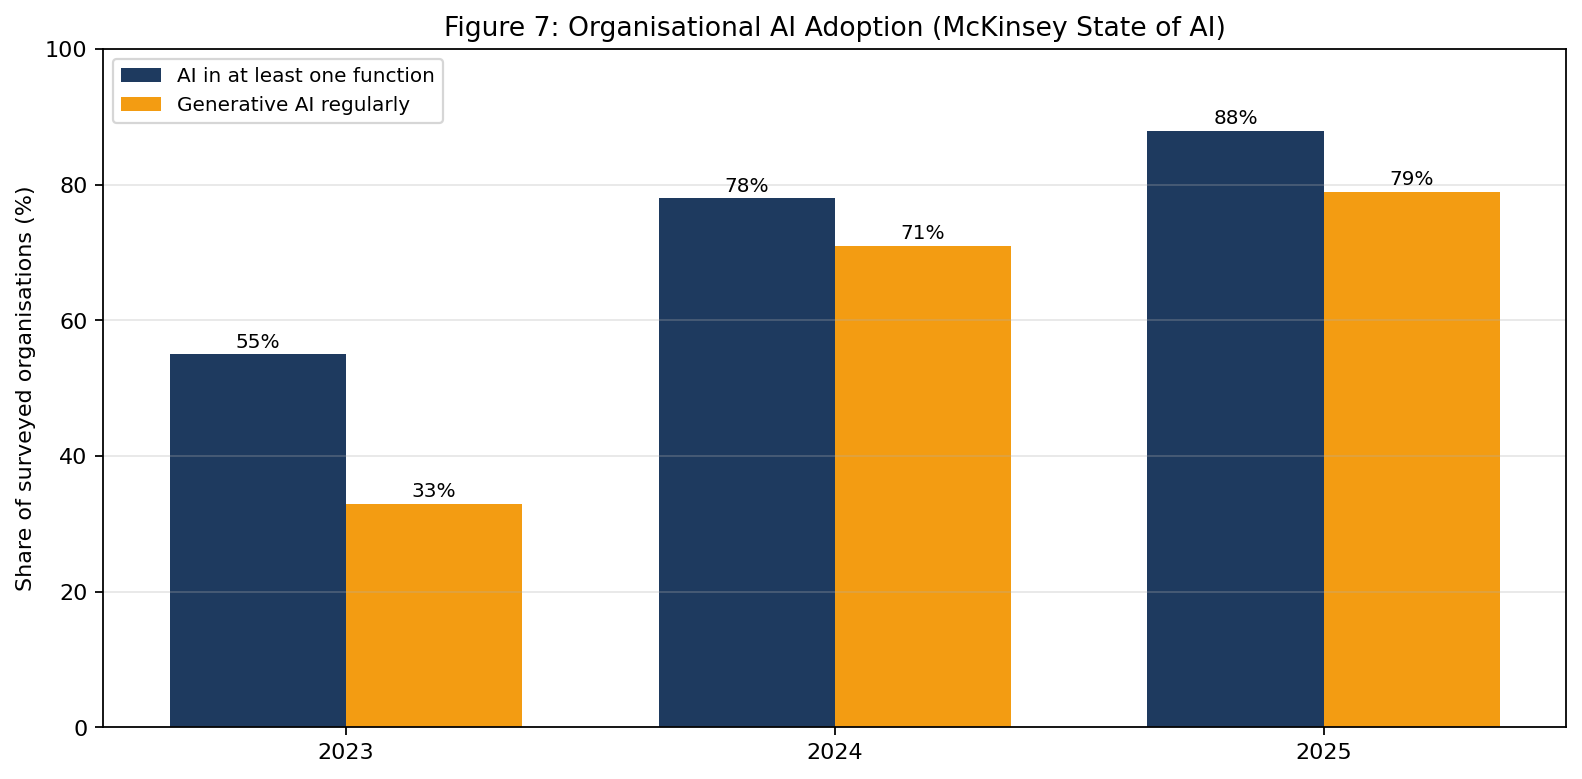
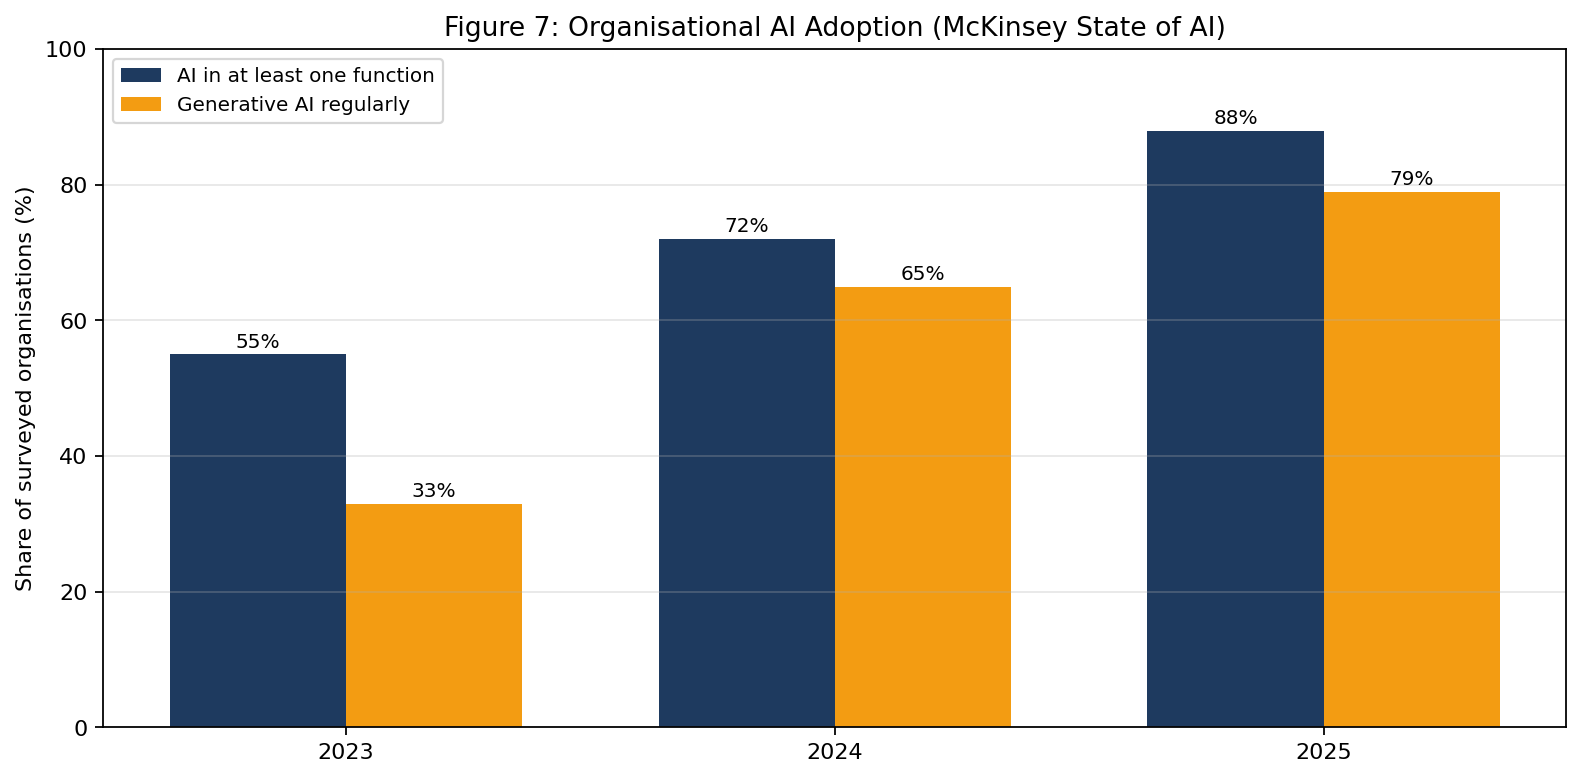
Fix AI era report: McKinsey 2024 adoption figures, Diener DOI, Pew attribution, and wording

Changed region(s): [[0.5265, 0.2773, 0.6504, 0.3697], [0.4027, 0.2157, 0.5265, 0.3081]]

diff --git a/public/reports/ai-era-daily-life/index.html b/public/reports/ai-era-daily-life/index.html
@@ -335,7 +335,7 @@
 <section id="qol">
   <h2>3. Quality of Life and Life Satisfaction</h2>
 
-  <p>Life satisfaction is the most direct evaluative measure of whether lives are going well, and it has been collected consistently by the Gallup World Poll through the Cantril ladder since 2005. The World Happiness Report publishes country-level values as three-year rolling averages, and the unweighted world mean of those values is the closest thing to a global happiness trend. It rose from about 5.39 in 2015 to 5.65 in 2025, an increase of roughly a quarter of a point on a 0 to 10 scale (Figure 2).</p>
+  <p>Life satisfaction is the most direct evaluative measure of whether lives are going well, and it has been collected consistently by the Gallup World Poll through the Cantril ladder since 2005. The World Happiness Report publishes country-level values as three-year rolling averages, and the unweighted world mean of those values is the closest thing to a global happiness trend. It rose from about 5.38 in 2015 to 5.65 in 2025, an increase of roughly a quarter of a point on a 0 to 10 scale (Figure 2).</p>
 
   <div class="chart-container">
     <h4>Figure 1: Generative AI Milestones and the ChatGPT Inflection Point (2016-2026)</h4>
@@ -446,7 +446,7 @@
 <section id="distribution">
   <h2>8. Distribution of Effects</h2>
 
-  <p>Who gains and who loses depends on which side of three gaps a person sits: the usage gap, the exposure gap, and the skill gap. The usage gap is the largest and the best measured. Pew's 2025 survey found 58 percent of US adults aged 18 to 29 had used ChatGPT, versus 41 percent of those aged 30 to 49, 25 percent of those aged 50 to 64, and 10 percent of those 65 and over (Figure 10a). The same survey found 62 percent of Americans thought AI would have a major impact on workers in general but only 32 percent thought it would have a major impact on them personally, a gap between generalised anxiety and personal expectation that is itself a distributional fact: those who expect to be affected are not evenly spread across the population.</p>
+  <p>Who gains and who loses depends on which side of three gaps a person sits: the usage gap, the exposure gap, and the skill gap. The usage gap is the largest and the best measured. Pew's 2025 survey found 58 percent of US adults aged 18 to 29 had used ChatGPT, versus 41 percent of those aged 30 to 49, 25 percent of those aged 50 to 64, and 10 percent of those 65 and over (Figure 10a). An earlier Pew survey found the same pattern: 62 percent of Americans thought AI would have a major impact on workers generally, but only 28 percent thought it would have a major impact on them personally, a gap between generalised anxiety and personal expectation that is itself a distributional fact: those who expect to be affected are not evenly spread across the population.</p>
 
   <div class="two-col">
     <div class="chart-container">
@@ -495,7 +495,7 @@
 
   <p>Reviewed together, the seven dimensions support four solid conclusions and three honest non-conclusions.</p>
 
-  <p><strong>First, generative AI has diffused faster than any comparable consumer technology, and its adoption is real and measurable.</strong> ChatGPT went from launch to 100 million weekly users in a year and to about 800 million by October 2025. McKinsey surveys show the share of organisations using AI in at least one function rising from 55 percent in 2023 to 78 percent in 2024 and 88 percent in 2025, with regular generative AI use up from 33 to 79 percent over the same period (Figure 7). Pew's 44 percent ChatGPT usage among US adults in 2026 makes generative AI a mainstream consumer utility. This is not hype; it is the factual base on which the wellbeing questions sit.</p>
+  <p><strong>First, generative AI has diffused faster than any comparable consumer technology, and its adoption is real and measurable.</strong> ChatGPT went from launch to 100 million weekly users in a year and to about 800 million by October 2025. McKinsey surveys show the share of organisations using AI in at least one function rising from 55 percent in 2023 to 72 percent in 2024 and 88 percent in 2025, with regular generative AI use up from 33 percent in 2023 to 65 percent in 2024 and 79 percent in 2025 (Figure 7). Pew's 44 percent ChatGPT usage among US adults in 2026 makes generative AI a mainstream consumer utility. This is not hype; it is the factual base on which the wellbeing questions sit.</p>
 
   <div class="two-col">
     <div class="chart-container">
@@ -512,15 +512,15 @@
 
   <div class="chart-container">
     <h4>Figure 7: Organisational AI Adoption (McKinsey State of AI)</h4>
-    <p class="chart-note">Share of surveyed organisations using AI in at least one business function and the share regularly using generative AI, 2023 to 2025. Sources: McKinsey State of AI surveys; Stanford AI Index Report 2025.</p>
+    <p class="chart-note">Share of surveyed organisations using AI in at least one business function and the share regularly using generative AI, 2023 to 2025. Sources: McKinsey State of AI surveys (2023; early 2024; 2025). The Stanford AI Index Report (2025) re-states a later 2024 survey reading of 78 percent.</p>
     <div class="chart-box" id="chart-org-adoption"></div>
   </div>
 
-  <p><strong>Second, the productivity evidence for AI at work is unusually strong for a technology this young.</strong> Six independent randomised experiments, spanning writing, coding, customer support, consulting, and entrepreneurship, find gains of 14 to 56 percent, with the largest gains among less experienced workers in most settings. The OECD, Stanford, and the ILO all reach the same conclusion from different angles: the near-term effect of generative AI is augmentation, not mass substitution. This does not mean displacement will not come, but it means the reasonable baseline expectation is task reallocation and skill change, not a wave of unemployment.</p>
+  <p><strong>Second, the productivity evidence for AI at work is unusually strong for a technology this young.</strong> Six independent randomised experiments, spanning writing, coding, customer support, consulting, and entrepreneurship, find gains of 12 to 56 percent, with the largest gains among less experienced workers in most settings. The OECD, Stanford, and the ILO all reach the same conclusion from different angles: the near-term effect of generative AI is augmentation, not mass substitution. This does not mean displacement will not come, but it means the reasonable baseline expectation is task reallocation and skill change, not a wave of unemployment.</p>
 
   <p><strong>Third, the wellbeing aggregates do not show an AI effect, and the burden of proof is on those who claim one.</strong> Global life evaluation, positive and negative affect, and population-wide stress all improved after their pandemic lows, and their movements align more with the pandemic recovery than with the ChatGPT boundary. The freedom data show the world feeling more, not less, free, with the notable exception of the United States, where the decline coincides with a political and legal event, not a technology. A responsible economist reading these series should conclude that generative AI has not yet produced a detectable aggregate effect on measured wellbeing in either direction.</p>
 
-  <p><strong>Fourth, the risks are real and concentrated where the aggregates cannot see them.</strong> Workplace stress is high and flat, job worry doubled between 2021 and 2023, clerical workers and women face the highest automation exposure, and the learning experiments show that unsupervised AI use can reduce skill formation. The distributional profile is the opposite of reassuring: usage is highest among the young and educated, exposure is highest among the same groups through augmentation, and displacement risk is highest among clerical workers who are disproportionately women.</p>
+  <p><strong>Fourth, the risks are real and concentrated where the aggregates cannot see them.</strong> Workplace stress is high and flat, job worry rose from 15 to 22 percent between 2021 and 2023, clerical workers and women face the highest automation exposure, and the learning experiments show that unsupervised AI use can reduce skill formation. The distributional profile is the opposite of reassuring: usage is highest among the young and educated, exposure is highest among the same groups through augmentation, and displacement risk is highest among clerical workers who are disproportionately women.</p>
 
   <p>The three non-conclusions follow directly. It cannot be claimed that AI has improved global wellbeing, because the confounders (pandemic recovery, cost-of-living shock, pre-existing trends) are too entangled and no credible causal design exists yet. It cannot be claimed that AI has harmed wellbeing, for the same reason. And it cannot be claimed that the non-expert empowerment question is settled, because the same body of experiments shows gains for novices on well-defined tasks and losses for low performers on complex ones. The defensible position is narrower and more useful: generative AI changes the value of skills, and the direction of that change depends on task structure, feedback, and the surrounding institutions.</p>
 </section>
@@ -553,7 +553,7 @@
       <li>Cui, K. Z., Demirer, M., Jaffe, S., Musolff, L., Peng, S., and Salz, T. (2026). The effects of generative AI on high-skilled work: Evidence from three field experiments with software developers. <em>Management Science</em>. <a href="https://doi.org/10.1287/mnsc.2025.00535">https://doi.org/10.1287/mnsc.2025.00535</a></li>
       <li>Dell'Acqua, F., McFowland, E., Mollick, E., Lifshitz-Assaf, H., Kellogg, K., Rajendran, S., Krayer, L., Candelon, F., and Lakhani, K. (2023). Navigating the jagged technological frontier: Field experimental evidence of the effects of AI on knowledge worker productivity and quality. Harvard Business School Working Paper 24-013. <a href="https://ssrn.com/abstract=4573321">https://ssrn.com/abstract=4573321</a></li>
       <li>Devlin, J., Chang, M.-W., Lee, K., and Toutanova, K. (2019). BERT: Pre-training of deep bidirectional transformers for language understanding. <em>Proceedings of NAACL-HLT</em>. <a href="https://arxiv.org/abs/1810.04805">https://arxiv.org/abs/1810.04805</a></li>
-      <li>Diener, E., Ng, W., Harter, J., and Arora, R. (2010). Wealth and happiness across the world: Material prosperity predicts life evaluation, whereas psychosocial prosperity predicts positive feeling. <em>Journal of Personality and Social Psychology</em>, 99(1), 52-61. <a href="https://doi.org/10.1037/a0019626">https://doi.org/10.1037/a0019626</a></li>
+      <li>Diener, E., Ng, W., Harter, J., and Arora, R. (2010). Wealth and happiness across the world: Material prosperity predicts life evaluation, whereas psychosocial prosperity predicts positive feeling. <em>Journal of Personality and Social Psychology</em>, 99(1), 52-61. <a href="https://doi.org/10.1037/a0018066">https://doi.org/10.1037/a0018066</a></li>
       <li>Felten, E. W., Raj, M., and Seamans, R. (2021). Occupational, industry, and geographic exposure to artificial intelligence: A novel dataset and its potential uses. <em>Strategic Management Journal</em>, 42(12), 2195-2217. <a href="https://doi.org/10.1002/smj.3286">https://doi.org/10.1002/smj.3286</a></li>
       <li>Frey, C. B., and Osborne, M. A. (2017). The future of employment: How susceptible are jobs to computerisation? <em>Technological Forecasting and Social Change</em>, 114, 254-280. <a href="https://doi.org/10.1016/j.techfore.2016.08.019">https://doi.org/10.1016/j.techfore.2016.08.019</a></li>
       <li>Kahneman, D., and Deaton, A. (2010). High income improves evaluation of life but not emotional well-being. <em>Proceedings of the National Academy of Sciences</em>, 107(38), 16489-16493. <a href="https://doi.org/10.1073/pnas.1011492107">https://doi.org/10.1073/pnas.1011492107</a></li>
@@ -578,10 +578,12 @@
       <li>ILO (2023). Generative AI and jobs: A global analysis of potential effects on job quantity and quality. ILO Working Paper 96. <a href="https://www.ilo.org/publications/generative-ai-and-jobs-global-analysis-potential-effects-job-quantity-and">https://www.ilo.org/publications/generative-ai-and-jobs-global-analysis-potential-effects-job-quantity-and</a></li>
       <li>ILO (2026). New ILO data confirm women face higher workplace risks from generative AI than men. <a href="https://www.ilo.org/resource/news/new-ilo-data-confirm-women-face-higher-workplace-risks-generative-ai-men">https://www.ilo.org/resource/news/new-ilo-data-confirm-women-face-higher-workplace-risks-generative-ai-men</a></li>
       <li>IMF (2024). AI will transform the global economy. Let's make sure it benefits humanity. <a href="https://www.imf.org/en/blogs/articles/2024/01/14/ai-will-transform-the-global-economy-lets-make-sure-it-benefits-humanity">https://www.imf.org/en/blogs/articles/2024/01/14/ai-will-transform-the-global-economy-lets-make-sure-it-benefits-humanity</a></li>
-      <li>McKinsey and Company (2025). The state of AI: How organizations are rewiring to capture value. <a href="https://www.mckinsey.com/capabilities/quantumblack/our-insights/the-state-of-ai">https://www.mckinsey.com/capabilities/quantumblack/our-insights/the-state-of-ai</a></li>
+      <li>McKinsey and Company (2024). The state of AI in early 2024: Gen AI adoption spikes and starts to generate value. <a href="https://www.mckinsey.com/capabilities/quantumblack/our-insights/the-state-of-ai">https://www.mckinsey.com/capabilities/quantumblack/our-insights/the-state-of-ai</a></li>
+      <li>McKinsey and Company (2025). The state of AI in 2025: Agents, innovation, and transformation. <a href="https://www.mckinsey.com/capabilities/quantumblack/our-insights/the-state-of-ai">https://www.mckinsey.com/capabilities/quantumblack/our-insights/the-state-of-ai</a></li>
       <li>Microsoft (2023). Will AI fix work? 2023 Work Trend Index. <a href="https://www.microsoft.com/en-us/worklab/work-trend-index/will-ai-fix-work">https://www.microsoft.com/en-us/worklab/work-trend-index/will-ai-fix-work</a></li>
       <li>Microsoft (2024). AI at work is here. Now comes the hard part. 2024 Work Trend Index. <a href="https://www.microsoft.com/en-us/worklab/work-trend-index/ai-at-work-is-here-now-comes-the-hard-part">https://www.microsoft.com/en-us/worklab/work-trend-index/ai-at-work-is-here-now-comes-the-hard-part</a></li>
       <li>OECD (2024). Generative AI set to exacerbate regional divide in OECD countries. <a href="https://www.oecd.org/en/about/news/press-releases/2024/11/generative-ai-set-to-exacerbate-regional-divide-in-oecd-countries-says-first-regional-analysis-on-its-impact-on-local-job-markets.html">https://www.oecd.org/en/about/news/press-releases/2024/11/generative-ai-set-to-exacerbate-regional-divide-in-oecd-countries-says-first-regional-analysis-on-its-impact-on-local-job-markets.html</a></li>
+      <li>Pew Research Center (2023). AI in hiring and evaluating workers: What Americans think. <a href="https://www.pewresearch.org/internet/2023/04/20/ai-in-hiring-and-evaluating-workers-what-americans-think/">https://www.pewresearch.org/internet/2023/04/20/ai-in-hiring-and-evaluating-workers-what-americans-think/</a></li>
       <li>Pew Research Center (2025). 34% of U.S. adults have used ChatGPT, about double the share in 2023. <a href="https://www.pewresearch.org/short-reads/2025/06/25/34-of-us-adults-have-used-chatgpt-about-double-the-share-in-2023/">https://www.pewresearch.org/short-reads/2025/06/25/34-of-us-adults-have-used-chatgpt-about-double-the-share-in-2023/</a></li>
       <li>Pew Research Center (2025). Workers' views of AI use in the workplace. <a href="https://www.pewresearch.org/social-trends/2025/02/25/workers-views-of-ai-use-in-the-workplace/">https://www.pewresearch.org/social-trends/2025/02/25/workers-views-of-ai-use-in-the-workplace/</a></li>
       <li>Pew Research Center (2026). Americans and AI. <a href="https://www.pewresearch.org/internet/2026/06/17/americans-and-ai/">https://www.pewresearch.org/internet/2026/06/17/americans-and-ai/</a></li>
@@ -803,8 +805,8 @@ window._echartsReady = true;
     xAxis: { type: 'category', data: ['2023','2024','2025'], axisLabel: { fontSize: 10 } },
     yAxis: { type: 'value', max: 100, axisLabel: { formatter: '{value}%', fontSize: 10 } },
     series: [
-      { name: 'AI in at least one function', type: 'bar', data: [55,78,88], barMaxWidth: 34, itemStyle: { color: '#1e3a5f' }, label: { show: true, position: 'top', fontSize: 10, formatter: '{c}%' } },
-      { name: 'Generative AI regularly', type: 'bar', data: [33,71,79], barMaxWidth: 34, itemStyle: { color: '#f39c12' }, label: { show: true, position: 'top', fontSize: 10, formatter: '{c}%' } }
+      { name: 'AI in at least one function', type: 'bar', data: [55,72,88], barMaxWidth: 34, itemStyle: { color: '#1e3a5f' }, label: { show: true, position: 'top', fontSize: 10, formatter: '{c}%' } },
+      { name: 'Generative AI regularly', type: 'bar', data: [33,65,79], barMaxWidth: 34, itemStyle: { color: '#f39c12' }, label: { show: true, position: 'top', fontSize: 10, formatter: '{c}%' } }
     ]
   });
   window.addEventListener('resize', function() { c7.resize(); });
